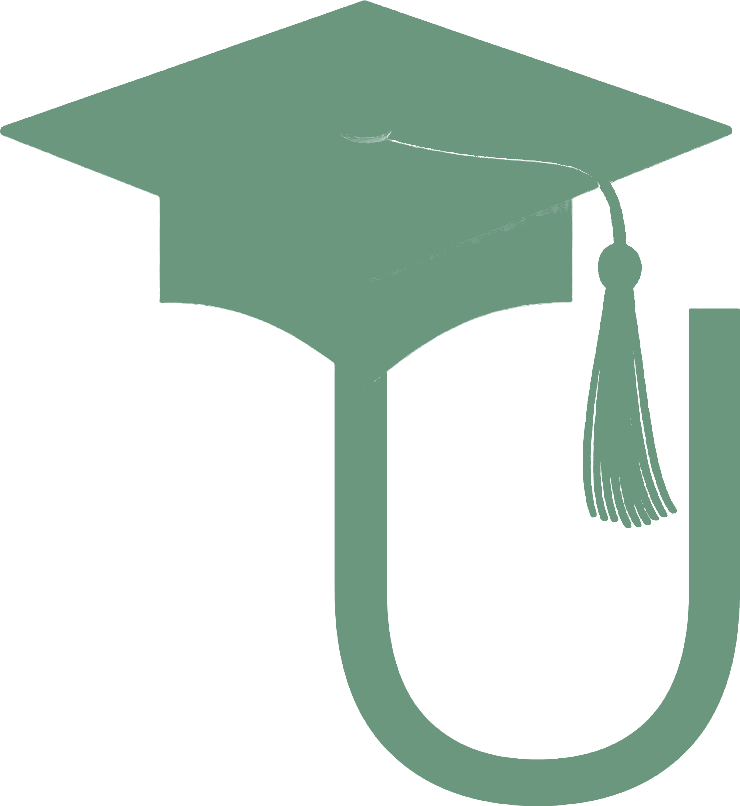
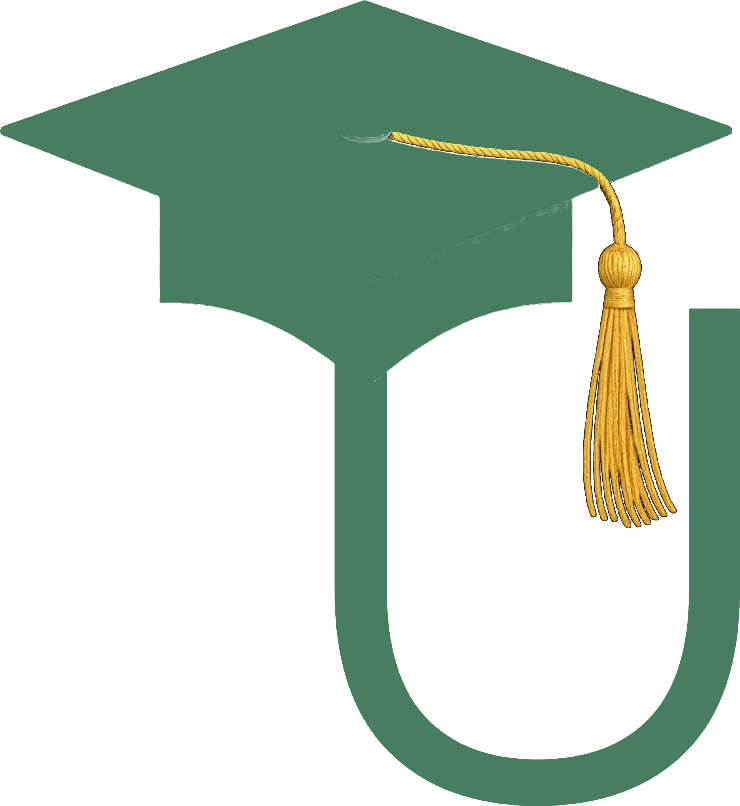
Garder la mèche jaune et imprimer le U dans le vert du bandeau.

diff --git a/Afrcaiim Card/static/rendu-carte.js b/Afrcaiim Card/static/rendu-carte.js
@@ -269,7 +269,7 @@ function filigraneLogo(px, face, largeurMm, hauteurMm) {
   const largeur = hauteur * ratio;
   const droite = 1;
   const gauche = (largeurMm || (portrait ? 54 : 85.6)) - largeur - droite;
-  img.src = recto ? "/static/filigrane.png?v=15" : "/static/filigrane-verso.png?v=15";
+  img.src = recto ? "/static/filigrane.png?v=16" : "/static/filigrane-verso.png?v=16";
   img.style.cssText = `position:absolute;left:${gauche * px}px;top:${haut * px}px;width:${largeur * px}px;height:${hauteur * px}px;object-fit:contain;pointer-events:none;z-index:1`;
   return img;
 }

diff --git a/Afrcaiim Card/templates/imprimer.html b/Afrcaiim Card/templates/imprimer.html
@@ -54,7 +54,7 @@
   <div id="recto" class="feuille"></div>
   <div id="verso" class="feuille"></div>
   <script id="donnees" type="application/json">{{ donnees | tojson }}</script>
-  <script src="/static/rendu-carte.js?v=52"></script>
+  <script src="/static/rendu-carte.js?v=53"></script>
   <script>
     const csrf = document.querySelector('meta[name="csrf"]').content;
     const data = JSON.parse(document.getElementById("donnees").textContent);

diff --git a/Afrcaiim Card/templates/imprimer_personnel.html b/Afrcaiim Card/templates/imprimer_personnel.html
@@ -53,7 +53,7 @@
   <div id="recto" class="feuille"></div>
   <div id="verso" class="feuille"></div>
   <script id="donnees" type="application/json">{{ donnees | tojson }}</script>
-  <script src="/static/rendu-carte.js?v=52"></script>
+  <script src="/static/rendu-carte.js?v=53"></script>
   <script>
     const data = JSON.parse(document.getElementById("donnees").textContent);
     const recto = document.getElementById("recto");

diff --git a/Afrcaiim Card/templates/studio.html b/Afrcaiim Card/templates/studio.html
@@ -235,7 +235,7 @@
     "tarifPersonnel": abonnement_personnel
   } | tojson }}</script>
   <script id="ecoles-officielles" type="application/json">{{ ecoles | tojson }}</script>
-  <script src="/static/rendu-carte.js?v=52"></script>
+  <script src="/static/rendu-carte.js?v=53"></script>
   <script src="/static/studio.js?v=42"></script>
   <script src="/static/abonnement.js?v=1" defer></script>
 </body>

diff --git a/Afrcaiim Card/templates/lot_apercu.html b/Afrcaiim Card/templates/lot_apercu.html
@@ -33,7 +33,7 @@
     </div>
   </div>
   <script id="donnees" type="application/json">{{ donnees | tojson }}</script>
-  <script src="/static/rendu-carte.js?v=52"></script>
+  <script src="/static/rendu-carte.js?v=53"></script>
   <script src="/static/impression-locale.js?v=2"></script>
   <script src="/static/lot-apercu.js?v=6"></script>
 </body>

diff --git a/Afrcaiim Card/app/services/pdf_carte.py b/Afrcaiim Card/app/services/pdf_carte.py
@@ -716,7 +716,7 @@ def _baseline(police: str, taille: float, hauteur: float, interligne: float, en_
 
 
 def _png_filigrane(recto: bool) -> bytes:
-    """U du logo en vert du bandeau (#004C22), posé sur blanc pour que la Primacy le dépose."""
+    """U en vert du bandeau, mèche jaune d'origine. Les deux sont posés sur blanc : la Primacy les dépose."""
     cle = "recto" if recto else "verso"
     cache = getattr(_png_filigrane, "_cache", {})
     if cle in cache:
@@ -724,16 +724,21 @@ def _png_filigrane(recto: bool) -> bytes:
     from PIL import Image
 
     source = Image.open(ROOT / "static" / "marque-u.png").convert("RGBA")
-    # Même vert que le bandeau du haut. Le mélange avec le blanc le laisse en filigrane.
     vert_bandeau = (0, 76, 34)
     pixels = []
-    for _rouge, _vert, _bleu, alpha in source.get_flattened_data():
+    for rouge, vert, bleu, alpha in source.get_flattened_data():
         if alpha < 16:
             pixels.append((255, 255, 255))
             continue
-        taux = 0.58 * (alpha / 255.0)
+        meche = rouge > vert and rouge > bleu and (rouge - bleu) > 12
+        if meche:
+            cible = (rouge, vert, bleu)
+            taux = alpha / 255.0
+        else:
+            cible = vert_bandeau
+            taux = 0.72 * (alpha / 255.0)
         pixels.append(tuple(
-            int(round(vert_bandeau[canal] * taux + 255 * (1.0 - taux)))
+            int(round(cible[canal] * taux + 255 * (1.0 - taux)))
             for canal in range(3)
         ))
     image = source.convert("RGB")
